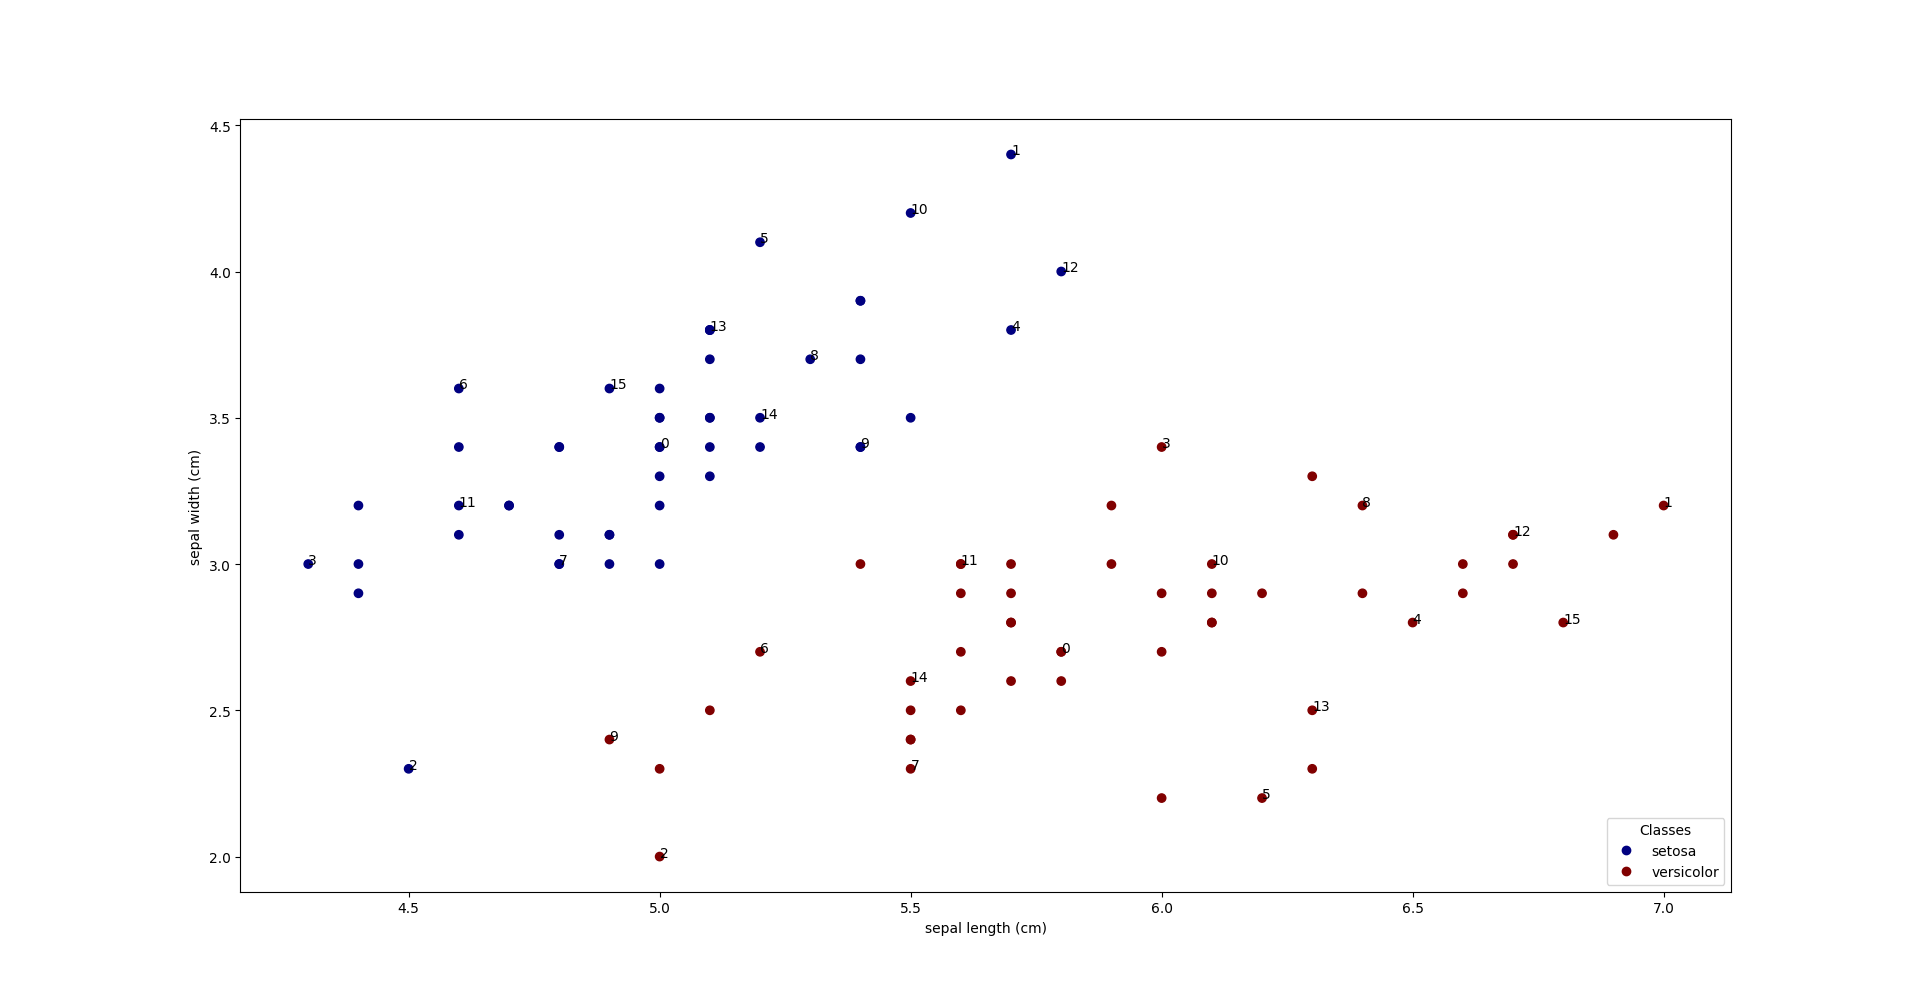
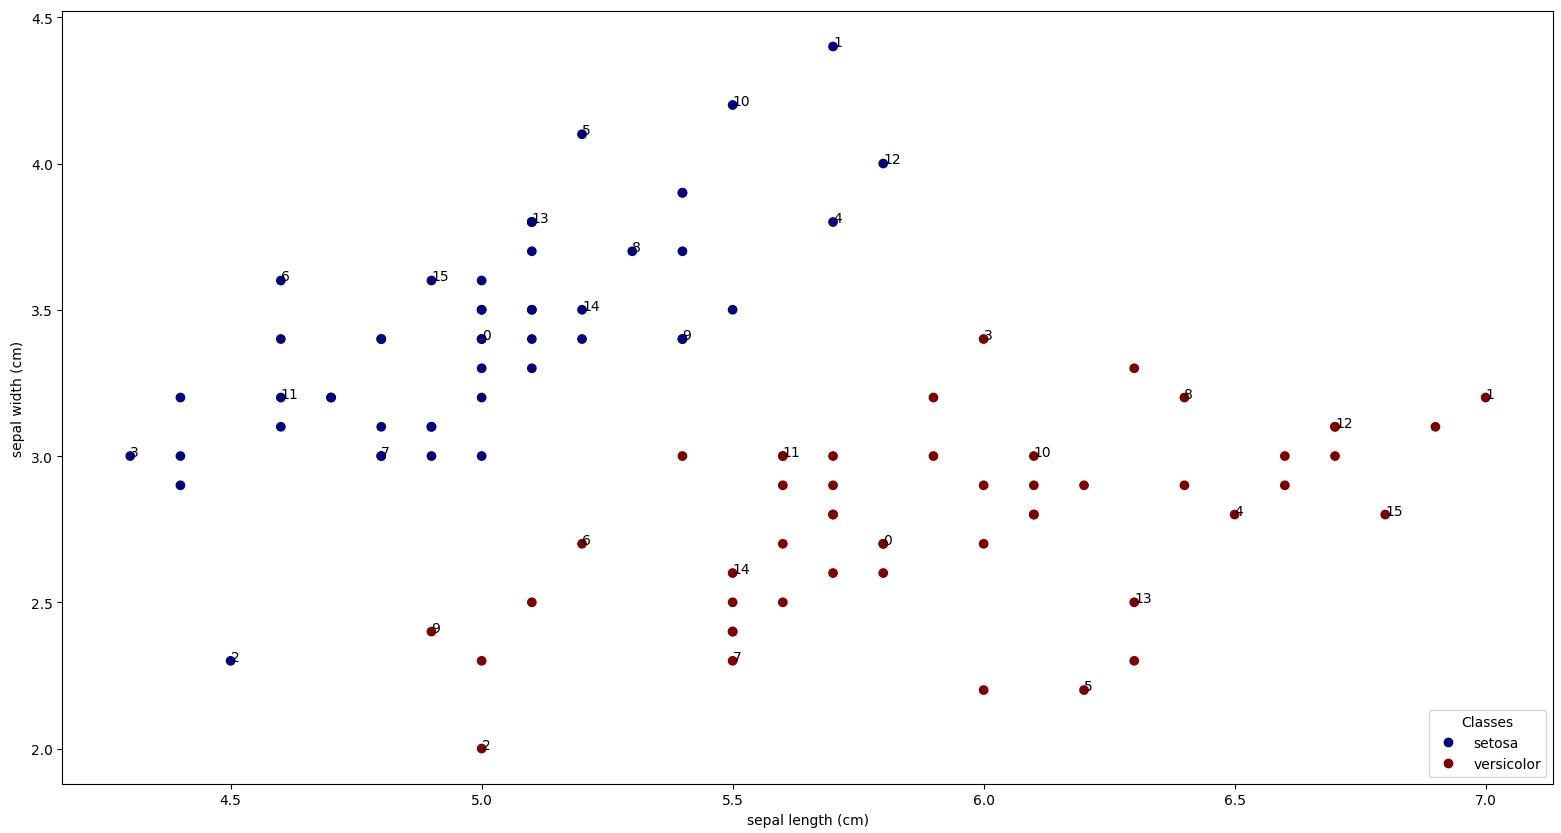
Some work on results

diff --git a/images/ijcai2026/main.tex b/images/ijcai2026/main.tex
@@ -129,7 +129,7 @@ compressed latent space, using a pretrained
 \emph{variational autoencoder (VAE)}.
 Specifically, we use the \emph{CompVis Stable Diffusion} VAE
 trained on MS-COCO \cite{rombach-blattmann-etal:2021}
-as augemented by Fotiadis et al.~\cite{fotiadis-valencia-etal:2022}.
+as augemented by Fotiadis et al.~[\citeyear{fotiadis-valencia-etal:2022}].
 The dimensionality of the latent space is
 $(4 \times (H/8) \times (W/8))$, where $4$ is the number of channels
 and $H \times W$ the image dimensions.
@@ -273,9 +273,9 @@ the first instance); and will proceed bouncing around the periphery of
 the class until the periphery has become sampled densely enough that
 samples deeper inside the class area are less well-represented.
 
-\begin{figure*}[t]
+\begin{figure*}[tb]
 \centering
-\includegraphics[width=\linewidth]{iris}
+\includegraphics[width=0.8\linewidth]{iris}
 \caption{Demonstration of the sampling method on the Iris dataset.}
 \label{fig:iris}
 \end{figure*}
@@ -317,22 +317,26 @@ contrastive space.
 
 %All experiments were conducted on a single NVIDIA H100 NVL GPU.
 
+We compared our method against prior work on core-set selection by
+following the same experimental setup as
+Moser et al.~[\citeyear{moser-shanbhag-etal:2025}] in order to get directly
+comparable results. Specifically, we first apply our method to the
+training fold of CIFAR-10 in order to get core-sets at different fractions
+of the training data, ranging from 0.1\% all the way up to the full dataset.
+A different core-set is prepared for each class and these are concatentated
+into the overall training set for each fraction. These training sets
+are used to train a ResNet-18 network, which is evaluated on the test data.
+ResNet-18 is trained for 250~epochs % MNIST we train for 50 epochs
+using AdamW with a learning rate of \num{2e-3} and weight decay \num{1e-4}. 
+The embeddings created during core-set selection are \emph{not}
+used; that is, ResNet-18 is trained from scratch, on raw images, without
+access to any information about how these images were selected.
 
+\input{tab_performance_data}
+% https://arxiv.org/pdf/2505.17799
 
-For CIFAR-10 we train each model for 250 epochs. %, while for MNIST we train for 50 epochs. 
-Additionally, we use AdamW with a learning rate of \num{2e-3} and weight decay \num{1e-4}. 
-For coreset subset selection, we select instances at subsets from $10\%$ to $90\%$ in steps of $10\%$, as well as smaller subsets of $0.1\%$,$0.5\%$, $1\%$ and $5\%$.
-Moreover, coresets are selected from the latent feature space of our ConvNet embedder trained 
-on top of the frozen Stable Diffusion VAE.
-We first compute L2-normalized embeddings for all training points and then apply the class-aware cosine $k$-center selection, 
-yielding one coreset per target data subset.
-These coresets are then used across all subsequent experiments, including the model-agnostic evaluation.
-
-
-Initially, we compared our method against a broad set of existing data selection 
-and coreset approaches, summarized in Table~\ref{tab:performance_data}.
-All methods are trained from scratch on CIFAR-10 using ResNet-18 as presented in~\cite{moser-shanbhag-etal:2025}, 
-and we report the test accuracy ranging from extremely small subsets (0.1\%, 0.5\%, 1\%) up to the full dataset (100\%).
+Table~\ref{tab:performance_data} gives the evaluation results of our method,
+together with the results reported by Moser et al.
 
 In the very small data subsets (0.1–1\%), our approach clearly outperforms all baselines, 
 achieving 32.74\%, 46.92\%, and 52.11\% test accuracy at 0.1\%, 0.5\%, and 1\% of the data, 
@@ -379,9 +383,6 @@ Thus, ResNet-18 appears undertrained in this setting and produces less useful em
 making coreset selection less efficient. 
 In practice, a compact latent ConvNet can be a more effective and computationally efficient 
 choice for coreset selection.
-
-\input{tab_performance_data}
-% https://arxiv.org/pdf/2505.17799
 
 \input{tab_model_agnostic}
 

diff --git a/images/ijcai2026/tab_performance_data.tex b/images/ijcai2026/tab_performance_data.tex
@@ -1,4 +1,4 @@
-\begin{table*}[t]
+\begin{table*}[bt]
 \centering
 \caption{Test Accuracy at Various Data Percentages on Resnet-18.}
 \label{tab:performance_data}
